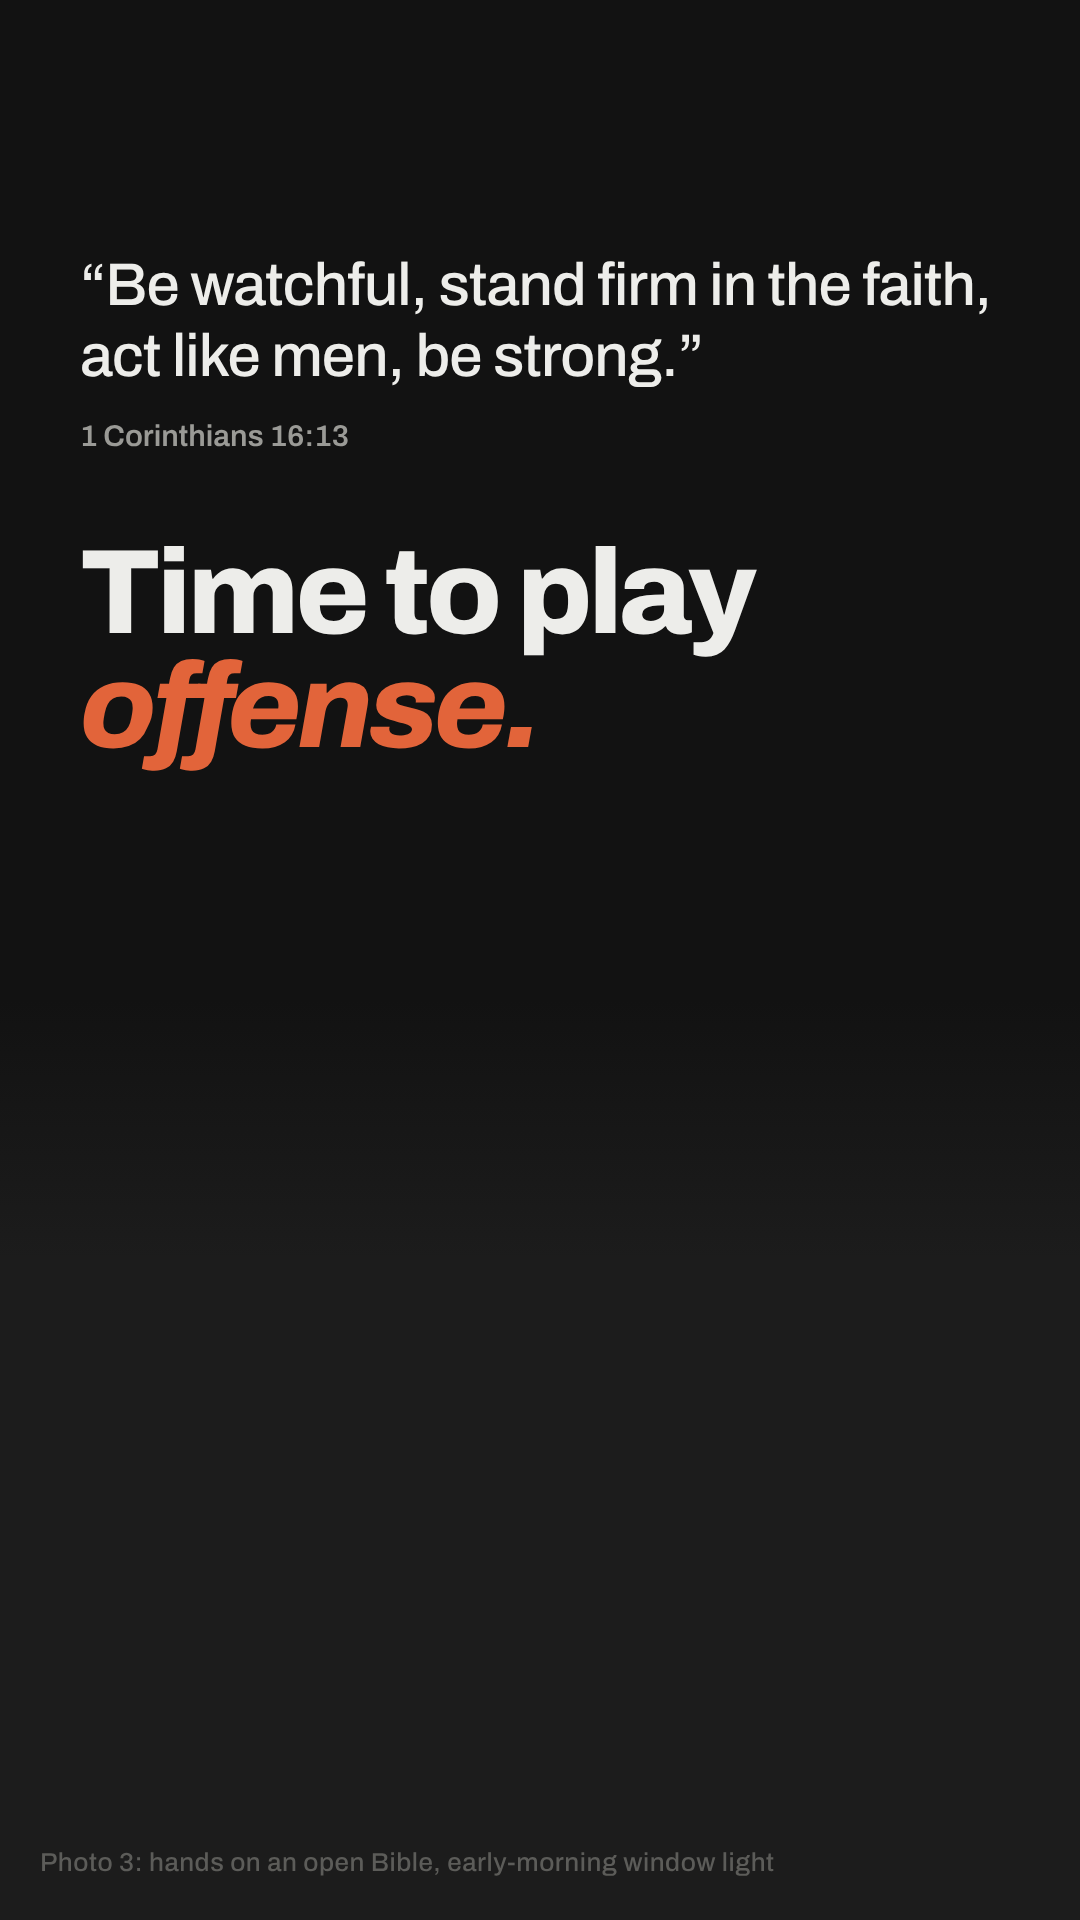
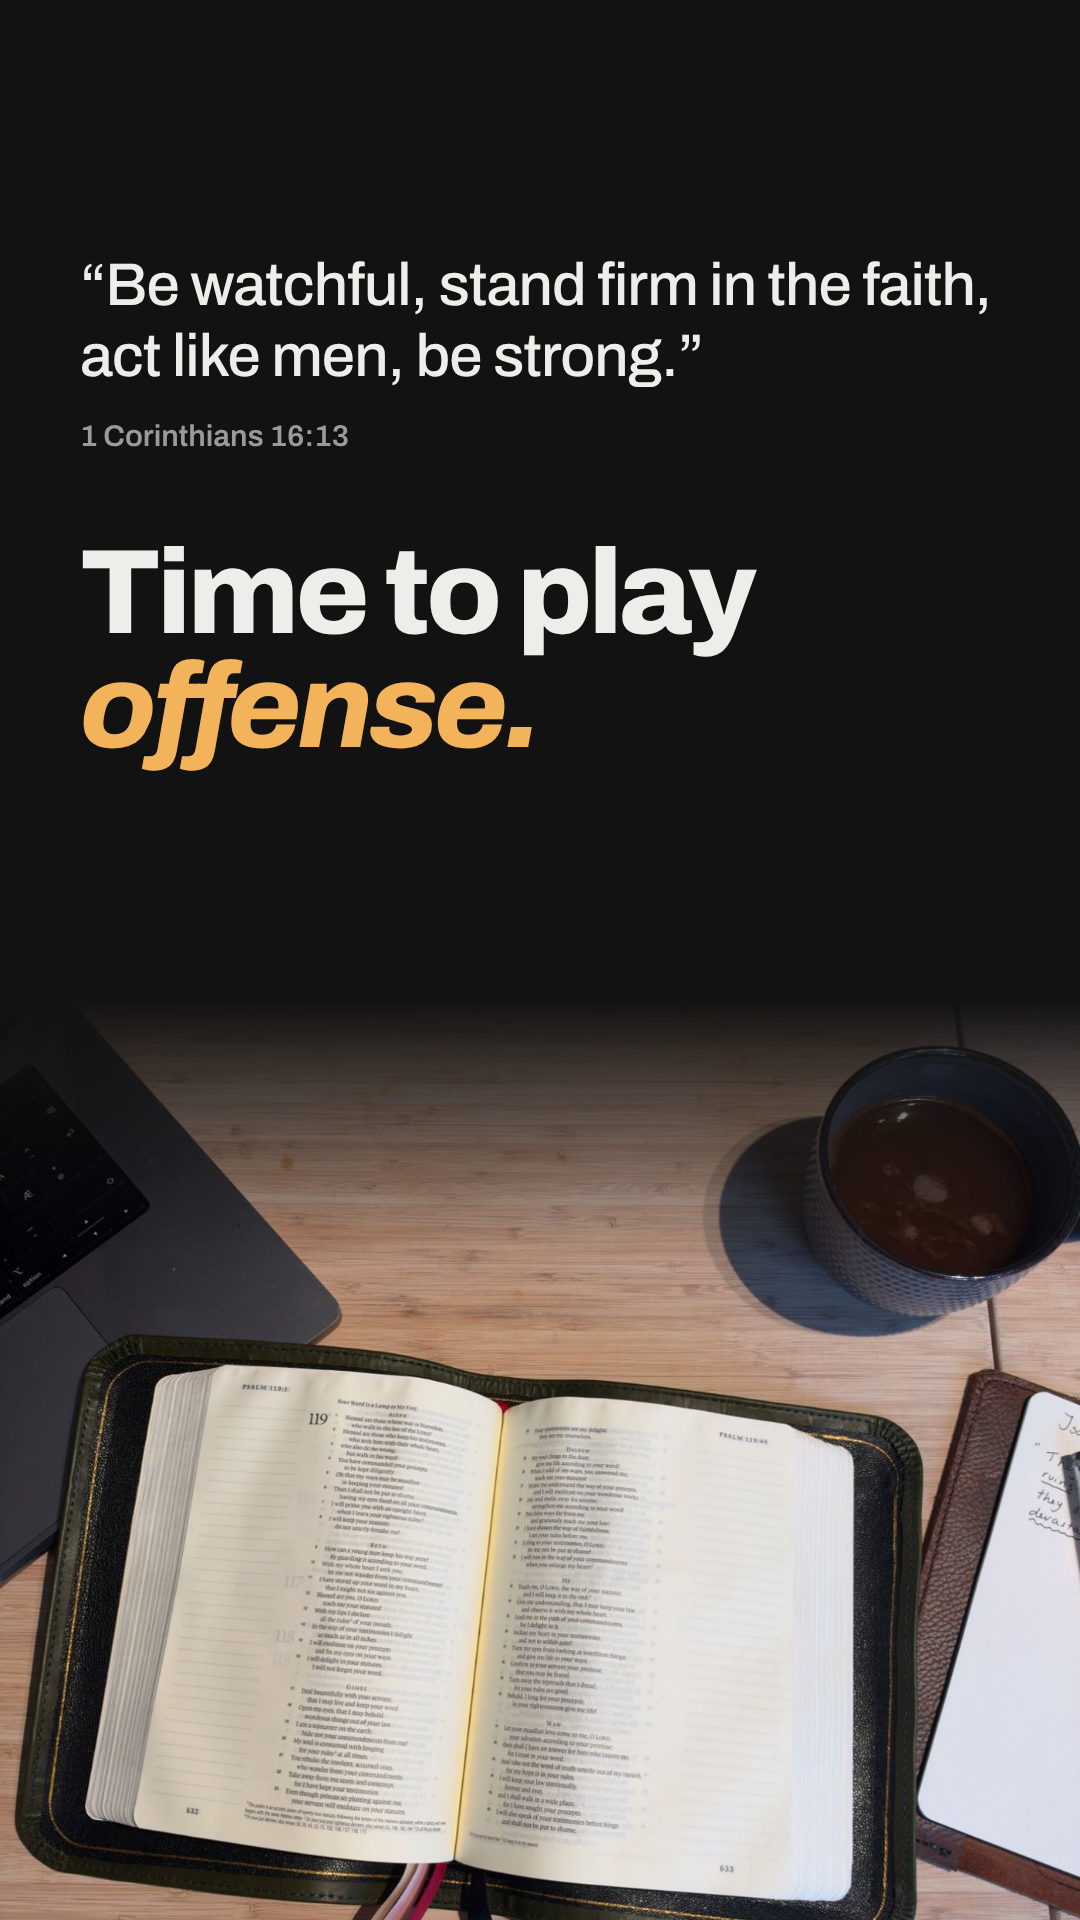
Add real photos to story slides, simplify CTA to DM me
Use the user's Bible-desk and app-in-hand photos (plus two crops of the
latter) on slides 3-6, make slide 1 type-led, and match the accent
colour to the app's own button.

Claude-Session: https://claude.ai/code/session_0116Hg7omUieHTTxqUcCEPH1

diff --git a/instagram-story/story.html b/instagram-story/story.html
@@ -7,7 +7,7 @@
 <link href="https://fonts.googleapis.com/css2?family=Archivo:ital,wdth,wght@0,62..125,400..900;1,62..125,400..900&display=swap" rel="stylesheet">
 <style>
   :root {
-    --ink: #121212; --ink-2: #1c1c1c; --paper: #ededea; --mute: #9a9a96; --signal: #e2643a;
+    --ink: #121212; --ink-2: #1c1c1c; --paper: #ededea; --mute: #9a9a96; --signal: #f2b35a;
     --top: 250px; --bottom: 340px; --side: 80px;
   }
   * { margin: 0; padding: 0; box-sizing: border-box; }
@@ -52,7 +52,7 @@
 
   /* S6 */
   .cta { display: flex; align-items: stretch; margin-top: 56px; }
-  .cta .a { flex: 1; display: flex; align-items: center; padding: 0 44px; font-weight: 600; font-size: 44px; border: 3px solid var(--paper); border-right: 0; }
+  .cta .a { flex: 1; display: flex; align-items: center; padding: 0 44px; font-weight: 600; font-size: 40px; border: 3px solid var(--paper); border-left: 0; }
   .cta .b { display: flex; align-items: center; padding: 34px 56px; background: var(--signal); color: var(--ink); font-weight: 900; font-size: 76px; letter-spacing: -.01em; }
 </style>
 </head>
@@ -60,9 +60,7 @@
 
 <!-- 1. Full-bleed photo, statement bottom-left -->
 <section class="slide" id="s1">
-  <div class="photo" style="inset:0" data-n="1" data-label=""></div>
-  <div class="scrim"></div>
-  <div class="abs" style="bottom:var(--bottom)">
+  <div class="abs" style="top:50%; transform:translateY(-50%)">
     <div class="label" style="margin-bottom:44px">Real talk, men</div>
     <h1 class="d xl">Men are under <em>attack.</em></h1>
     <p class="body" style="margin-top:48px">The world has never worked this hard to make men <b>passive, soft, and absent.</b></p>
@@ -117,20 +115,19 @@
 
 <!-- 6. Full-bleed photo, single CTA -->
 <section class="slide" id="s6">
-  <div class="photo" style="inset:0" data-n="6" data-label=""></div>
+  <div class="photo" style="inset:0; filter:brightness(.55) saturate(.7)" data-n="6" data-label=""></div>
   <div class="scrim"></div>
   <div class="abs" style="bottom:var(--bottom)">
     <div class="label" style="margin-bottom:44px">Testers wanted</div>
     <h2 class="d l">I need a few <em>good</em> men.</h2>
     <p class="body" style="margin-top:44px">Use it. Break it. <b>Tell me the truth.</b></p>
-    <div class="cta"><span class="a">DM me the word</span><span class="b">IRON</span></div>
+    <div class="cta"><span class="b">DM me</span><span class="a">to get early access</span></div>
     <p class="body" style="margin-top:40px; font-size:32px">Iron sharpens iron. Proverbs 27:17</p>
   </div>
 </section>
 
 <script>
   const labels = {
-    1: 'Photo 1: lone man from behind at dusk, storm sky or empty road',
     3: 'Photo 3: hands on an open Bible, early-morning window light',
     4: 'Photo 4: screenshot of the app, or a man reading on his phone at dawn',
     5: 'Photo 5: dad walking with his kid outdoors, golden hour, from behind',

diff --git a/DESIGN.md b/DESIGN.md
@@ -16,7 +16,7 @@ Manifesto-style brand for Christian men, aged 25-55, mostly friends-of-friends o
 
 ## Color
 
-Pure monochrome plus one saturated pop. Dark theme only, locked.
+Pure monochrome plus one warm pop taken from the app UI. Dark theme only, locked.
 
 | Token | Hex | Use |
 |---|---|---|
@@ -24,9 +24,9 @@ Pure monochrome plus one saturated pop. Dark theme only, locked.
 | `--ink-2` | `#1c1c1c` | Photo placeholder / raised surface |
 | `--paper` | `#ededea` | Primary text |
 | `--mute` | `#9a9a96` | Secondary text |
-| `--signal` | `#e2643a` | The one accent. Emphasis words, CTA fill, strike-throughs. Nothing else. |
+| `--signal` | `#f2b35a` | The one accent, matched to the app's own button colour. Emphasis words, CTA fill, strike-throughs. Nothing else. |
 
-Banned: beige/bone backgrounds, brass/gold accents, purple gradients, glows.
+Banned: beige/bone backgrounds, brass/metallic-gold accents, purple gradients, glows.
 
 ## Type
 
